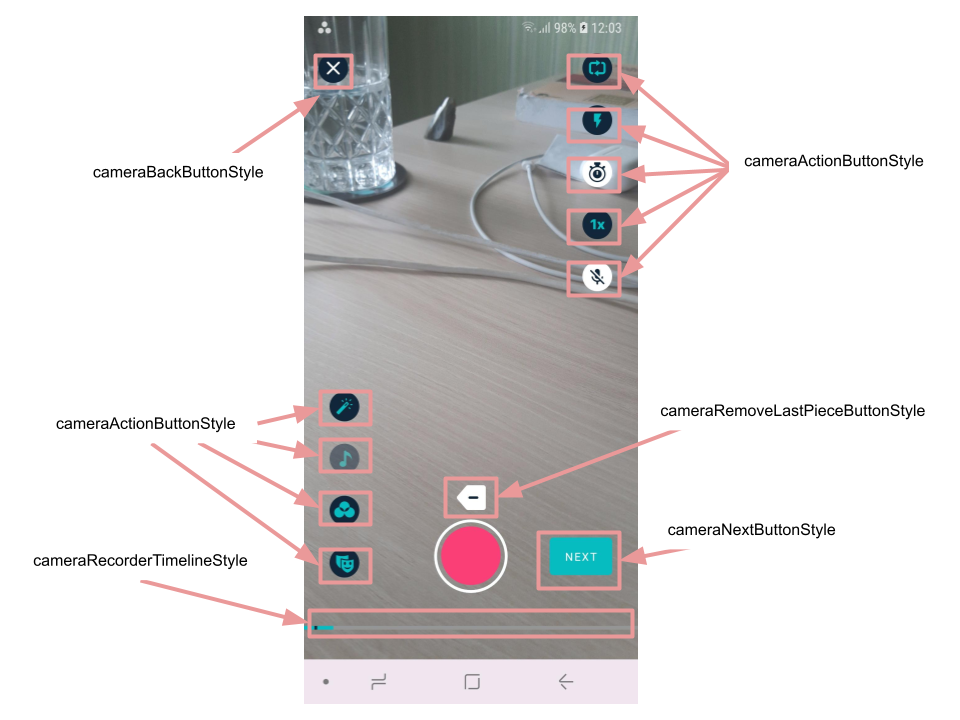
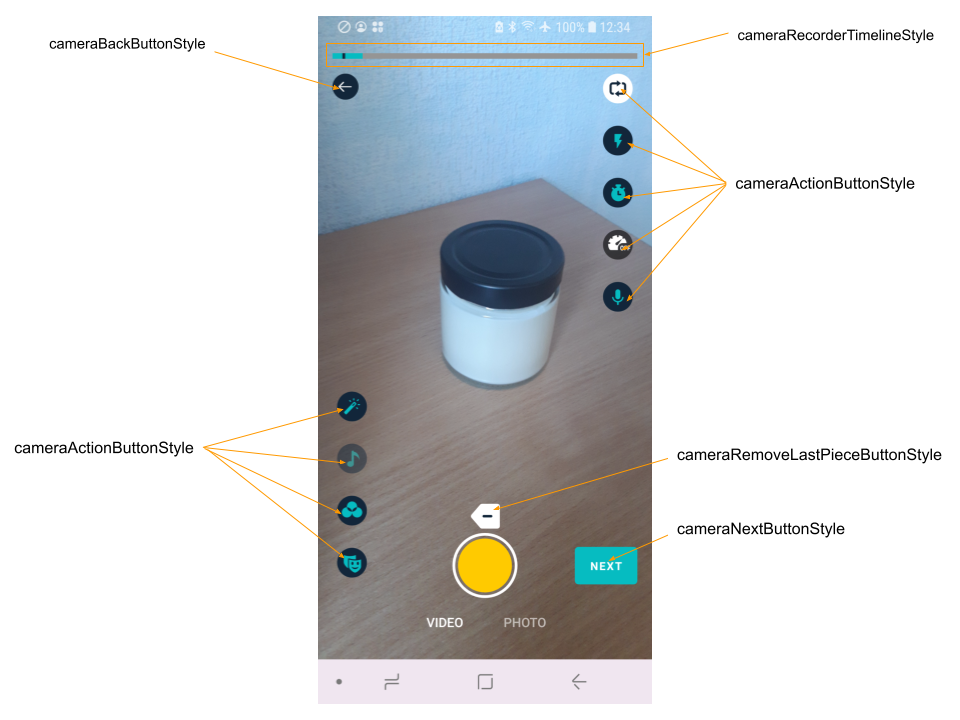
Updated Camera screen documentation

diff --git a/mddocs/camera_styles.md b/mddocs/camera_styles.md
@@ -38,16 +38,12 @@
 - [cameraEffectsRecyclerStyle](https://github.com/Banuba/ve-sdk-android-integration-sample/blob/1e37324dea76304e8e9205d463844ac5c8c199f7/app/src/main/res/values/themes.xml#L27)
 
     style applied to RecyclerView containing visual effects list
-- [cameraSpeedPickerLabelStyle](https://github.com/Banuba/ve-sdk-android-integration-sample/blob/1e37324dea76304e8e9205d463844ac5c8c199f7/app/src/main/res/values/themes.xml#L28)
-
-    style is applied to the recording speed options label. By default the label is not visible so this style can be omitted
 - [cameraSpeedPickerViewStyle](https://github.com/Banuba/ve-sdk-android-integration-sample/blob/1e37324dea76304e8e9205d463844ac5c8c199f7/app/src/main/res/values/themes.xml#L29)
 
     style is applied to custom recording speed options container
 - [cameraSpeedPickerItemStyle](https://github.com/Banuba/ve-sdk-android-integration-sample/blob/1e37324dea76304e8e9205d463844ac5c8c199f7/app/src/main/res/values/themes.xml#L30)
 
     style is applied to TextView representing every recording speed option within container
-
 - [checkableEffectTitleStyle](https://github.com/Banuba/ve-sdk-android-integration-sample/blob/1e37324dea76304e8e9205d463844ac5c8c199f7/app/src/main/res/values/themes.xml#L32)
 
     style is used to set text appearance of "checkable" effects (applied/removed by selection) title. This type of effects includes:
@@ -58,6 +54,7 @@
     The other effects type - "actionable" - defined in [editor styles](editor_styles.md#L57)
 
     ![img](screenshots/camera2.png)
+    ![img](screenshots/camera4.png)
 
 
 ## String resources
@@ -100,12 +97,6 @@ Groups described above are showcasted on the screenshot along with some string r
 | control_description_mask | Mask | title for the icon to open AR masks
 | message_record_first_video | Record at least %1$s | message shown in case user tries to proceed with the video shorter than ```minVideoDuration``` parameter from [CameraConfig](https://github.com/Banuba/ve-sdk-android-integration-sample/blob/main/mddocs/config_camera.md)
 | message_record_video_duration | {0,choice,0#{0} second\|1#{0} seconds\|2#{0} seconds\|3#{0} seconds\|4#{0} seconds\|4&lt;{0} seconds} | special string that defines the string value of the placeholder from ```message_record_first_video``` string (i.e. "1 second" or "3 seconds").  In this string only the selected words should be translated: {0,choice,0#{0} **second**\|1#{0} **seconds**\|2#{0} **seconds**\|3#{0} **seconds**\|4#{0} **seconds**\|4&lt;{0} **seconds**}. Other formatting should remain the same for every locale
-| notification_beautifier_on | Beautification on | message shown when beautification effect is applied
-| notification_beautifier_off | Beautification off | message shown when beautification effect is no longer applied
-| notification_flash_on | Light! | message shown when the flashlight is being turned on
-| notification_timer_on | Timer %1$d seconds is on | message shown when one of the TimerEntry was selected (placeholder is a TimerEntry value in seconds)
-| notification_timer_off | Timer is off | message shown when the timer is being turned off
-| notification_speed_changed | Recording speed %1$s | message shown when the speed of recording changes
 | err_no_space_left | Not enough disk space | message widely used in Video Editor SDK and informing that there is not space to effort further operations
 | err_no_time_left | Max video length %1$.1f sec | message shown in case of user tries to record video longer than the ```maxVideoDuration``` parameter from [CameraConfig](https://github.com/Banuba/ve-sdk-android-integration-sample/blob/main/mddocs/config_camera.md) class
 | err_no_space_left_recording | Running out of disk space. Recording is canceled. | message shown in case the phone is running out of space during video recording
@@ -118,3 +109,15 @@ In case if a TextView that are shown on camera has no string resource mentioned 
 
 All alert messages shown on the camera screen that require user's action are described in [Alert dialogs](alert_styles.md) section.
 
+## Colour resources
+We use this colour resources for styling record button
+```xml
+<resources>
+    ...
+    <color name="rec_btn_idle_state_color">#FFCA00</color>
+    <color name="rec_btn_video_recording_state_color">#FD0005</color>
+    <color name="rec_btn_photo_capturing_timer_state_color">#FFFFFF</color>
+    <color name="rec_btn_ring_color">#FFFFFF</color>
+</resources>
+```
+ ![img](screenshots/camera3.png)
